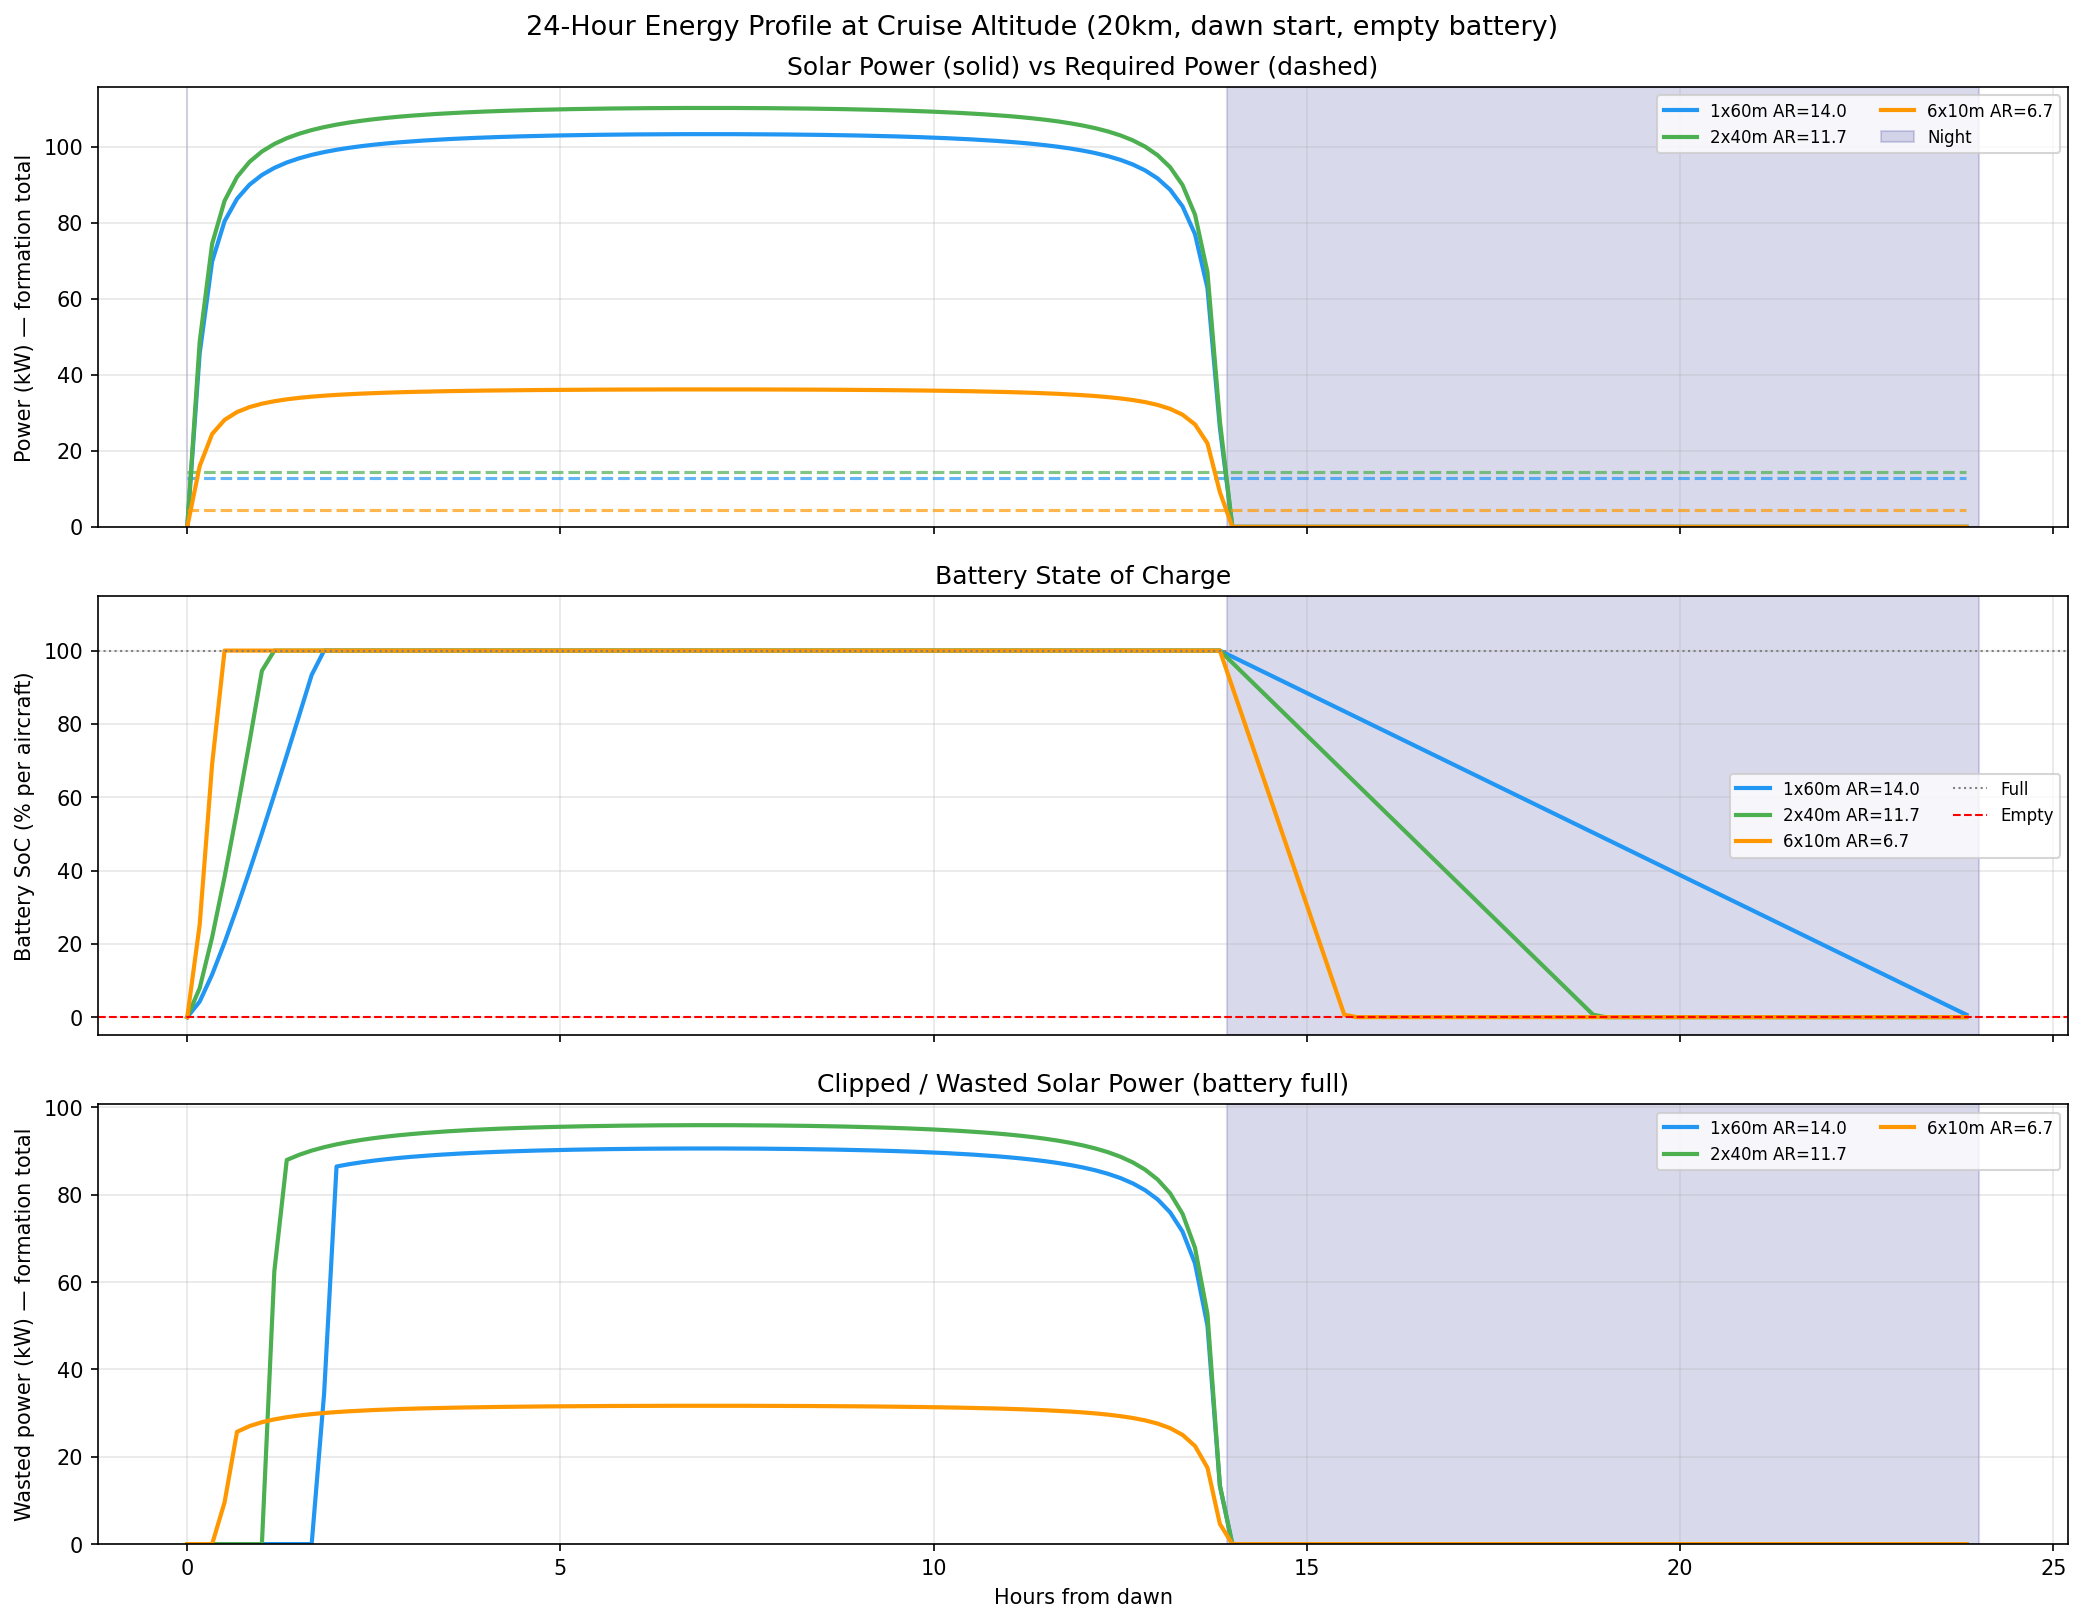
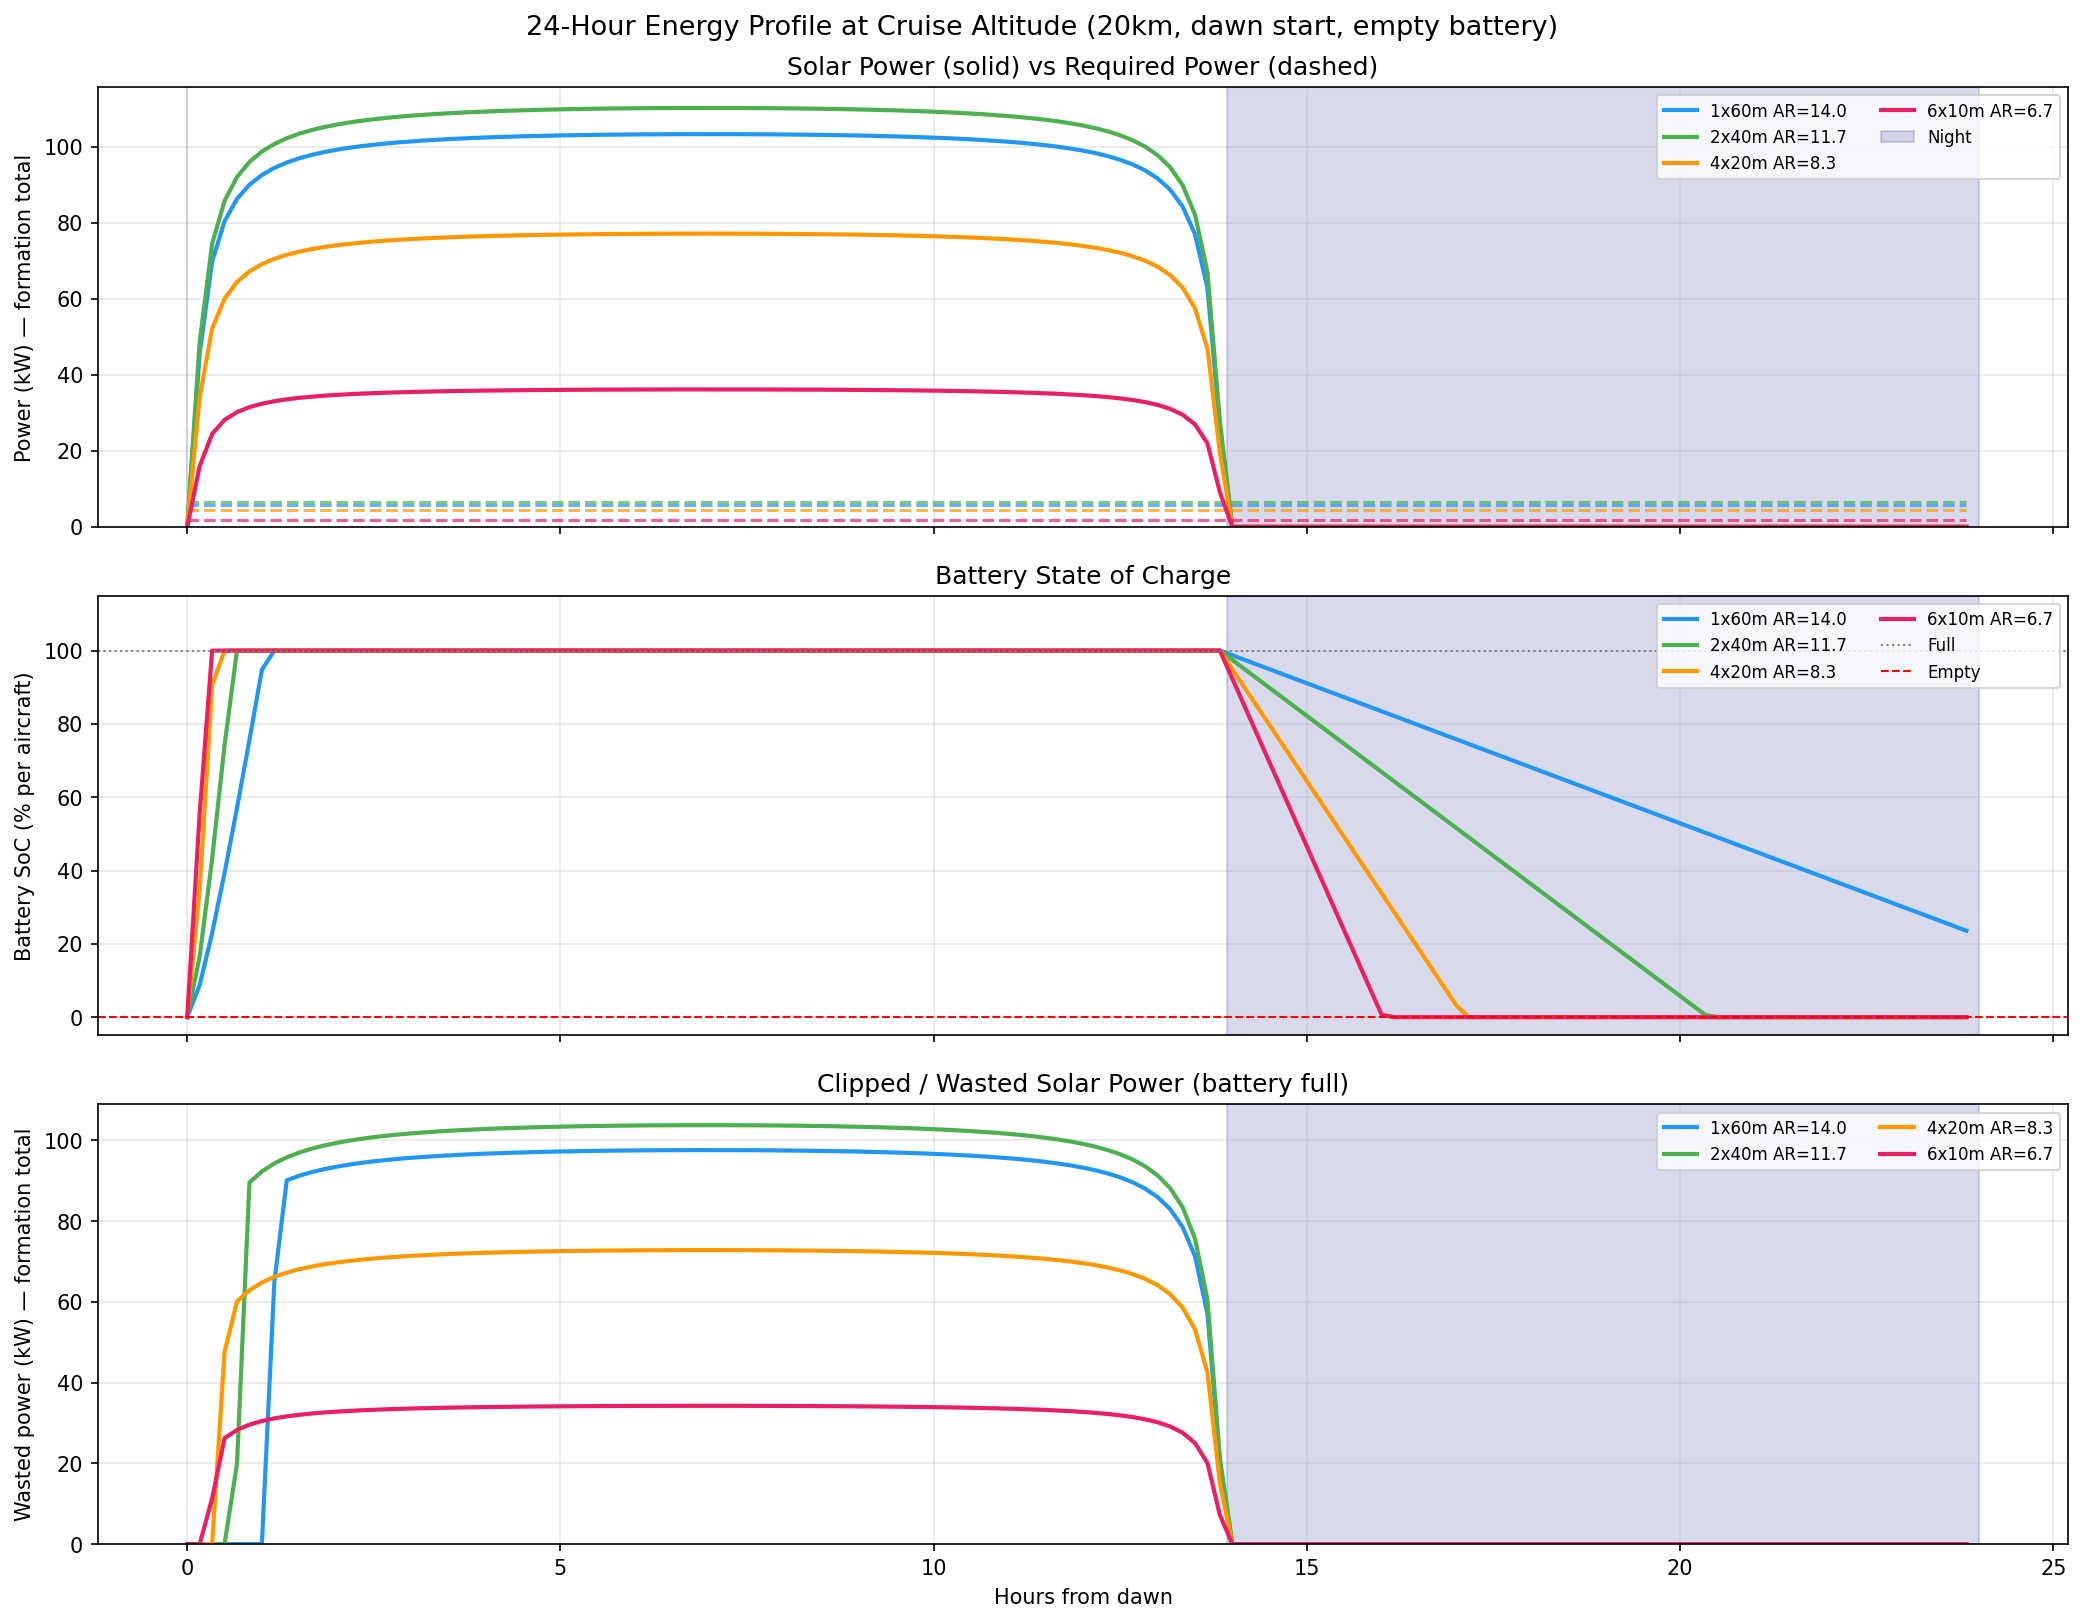
fix: add 30% margin to battery sizing for night survival
Battery was sized to exactly night_hours * power, leaving zero margin.
Now includes 1.3x factor to account for incomplete charging (weak
afternoon solar) and degradation. 1x60m and 2x40m now survive the
night. 4x20m and 6x10m are marginal — smaller wings can't collect
enough daytime solar to fully charge the larger battery.

diff --git a/wingz/solar/energy_balance.py b/wingz/solar/energy_balance.py
@@ -53,7 +53,15 @@ def compute_energy_balance(
 
 
 def required_battery_mass(
-    power_required_W: float, night_hours: float, battery_energy_density_Wh_kg: float = 250.0,
+    power_required_W: float, night_hours: float,
+    battery_energy_density_Wh_kg: float = 250.0,
+    margin: float = 1.3,
 ) -> float:
-    """m_bat = P * t_night / energy_density. Default 250 Wh/kg (Li-ion). Ref: Noth (2008) Ch. 3."""
-    return power_required_W * night_hours / battery_energy_density_Wh_kg
+    """
+    m_bat = P * t_night * margin / energy_density.
+
+    The margin (default 1.3 = 30%) accounts for the battery not reaching
+    100% charge before sunset (weak afternoon solar) and degradation.
+    Ref: Noth (2008) Ch. 3.
+    """
+    return power_required_W * night_hours * margin / battery_energy_density_Wh_kg

diff --git a/scripts/energy_timeline.py b/scripts/energy_timeline.py
@@ -103,7 +103,9 @@ def solve(N, span, AR=None, pld_power=0, pld_g_per_W=50):
         )
         total_pwr = drag * V_cruise + hw_pwr + sk_total + pld_power
 
-        new_batt = total_pwr * night_h / BATT_ENERGY_DENSITY / N
+        # Battery sized for night survival with 30% margin
+        # (extra 30% ensures battery lasts even if it doesn't fully charge)
+        new_batt = total_pwr * night_h * 1.3 / BATT_ENERGY_DENSITY / N
         new_struct = beam.wing_mass(span, AR, ac)
 
         if not np.isfinite(new_batt) or not np.isfinite(new_struct) or new_batt > 1e5:

diff --git a/tests/test_energy_balance.py b/tests/test_energy_balance.py
@@ -34,6 +34,7 @@ def test_impossible_conditions_fails():
 
 
 def test_battery_mass_positive():
+    # 200W * 12h * 1.3 margin / 250 Wh/kg = 12.48 kg
     mass = required_battery_mass(power_required_W=200.0, night_hours=12.0, battery_energy_density_Wh_kg=250.0)
     assert mass > 0
-    assert abs(mass - 9.6) < 0.1
+    assert abs(mass - 12.48) < 0.1